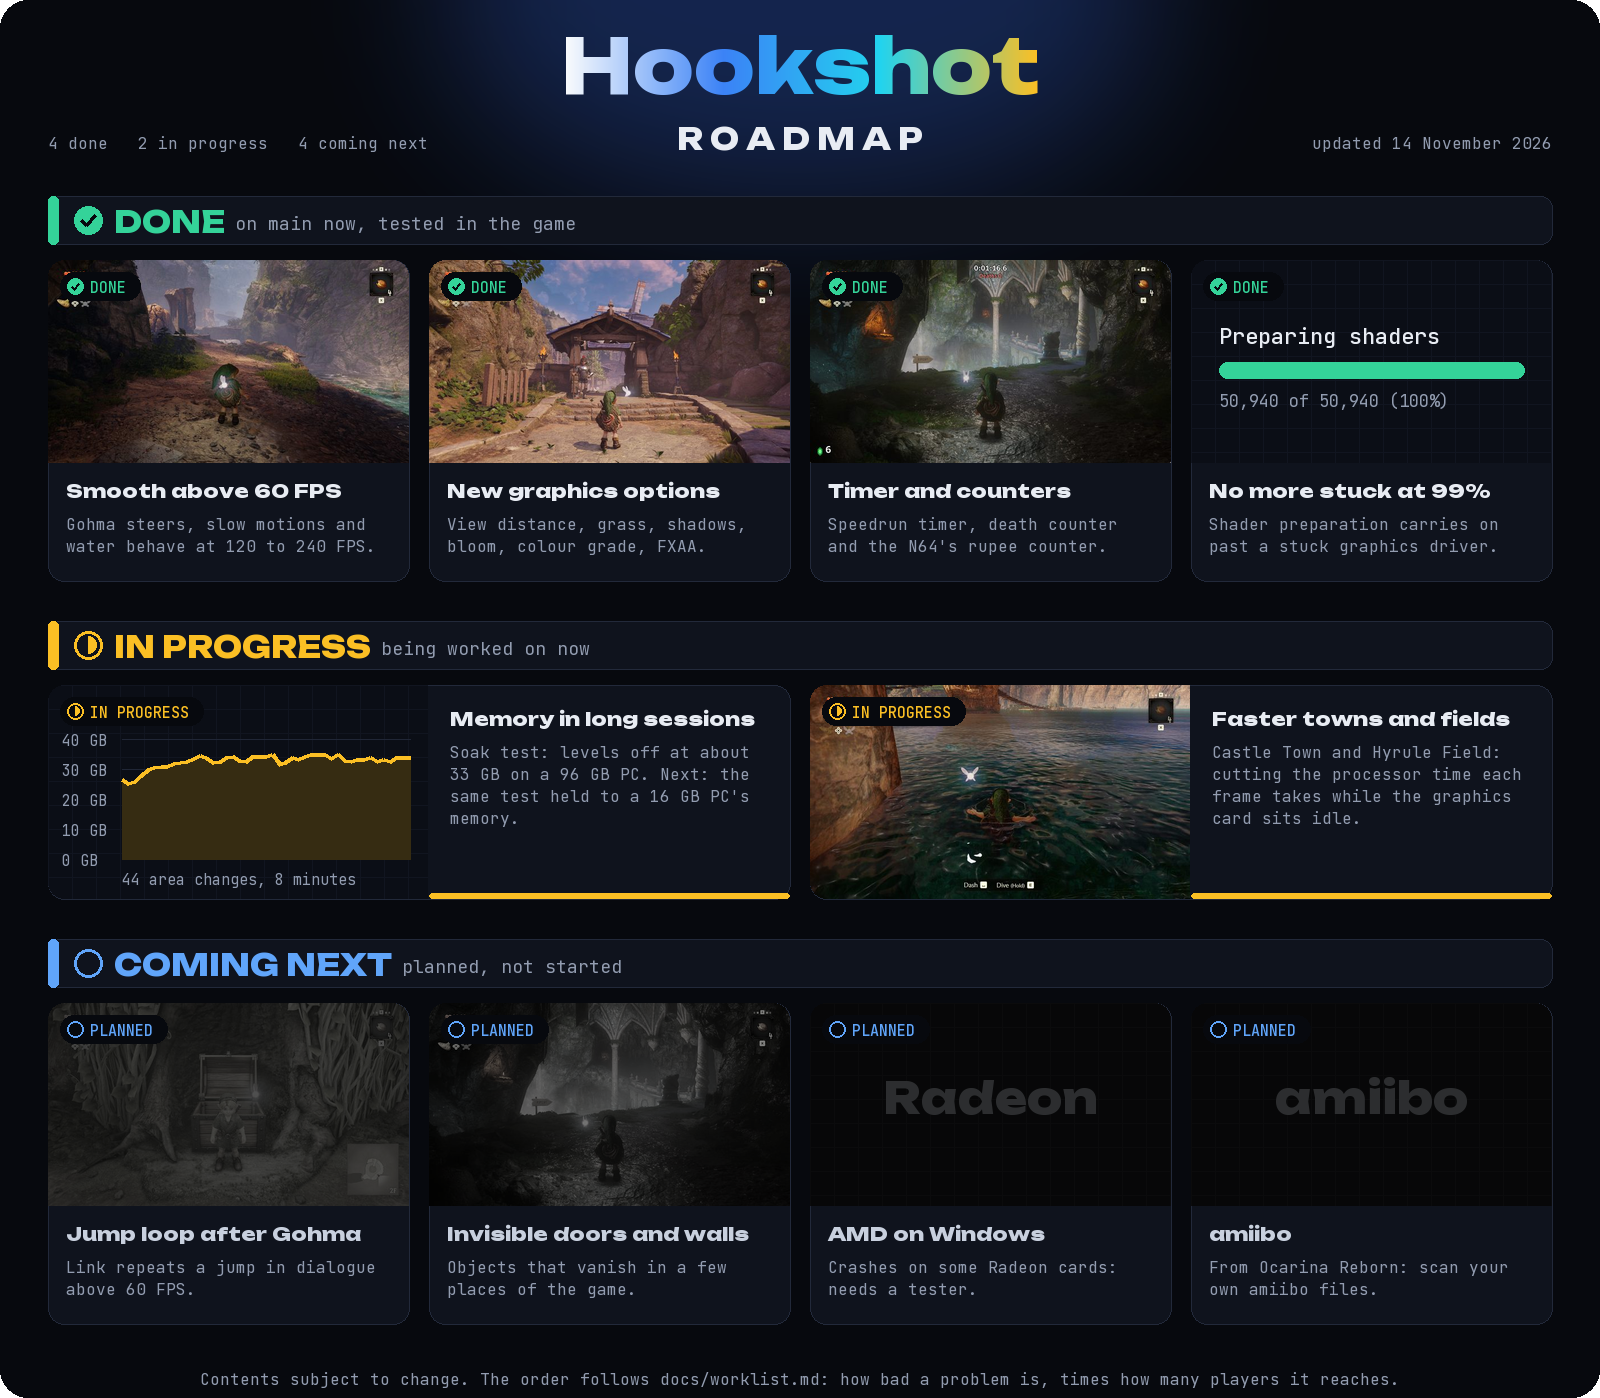
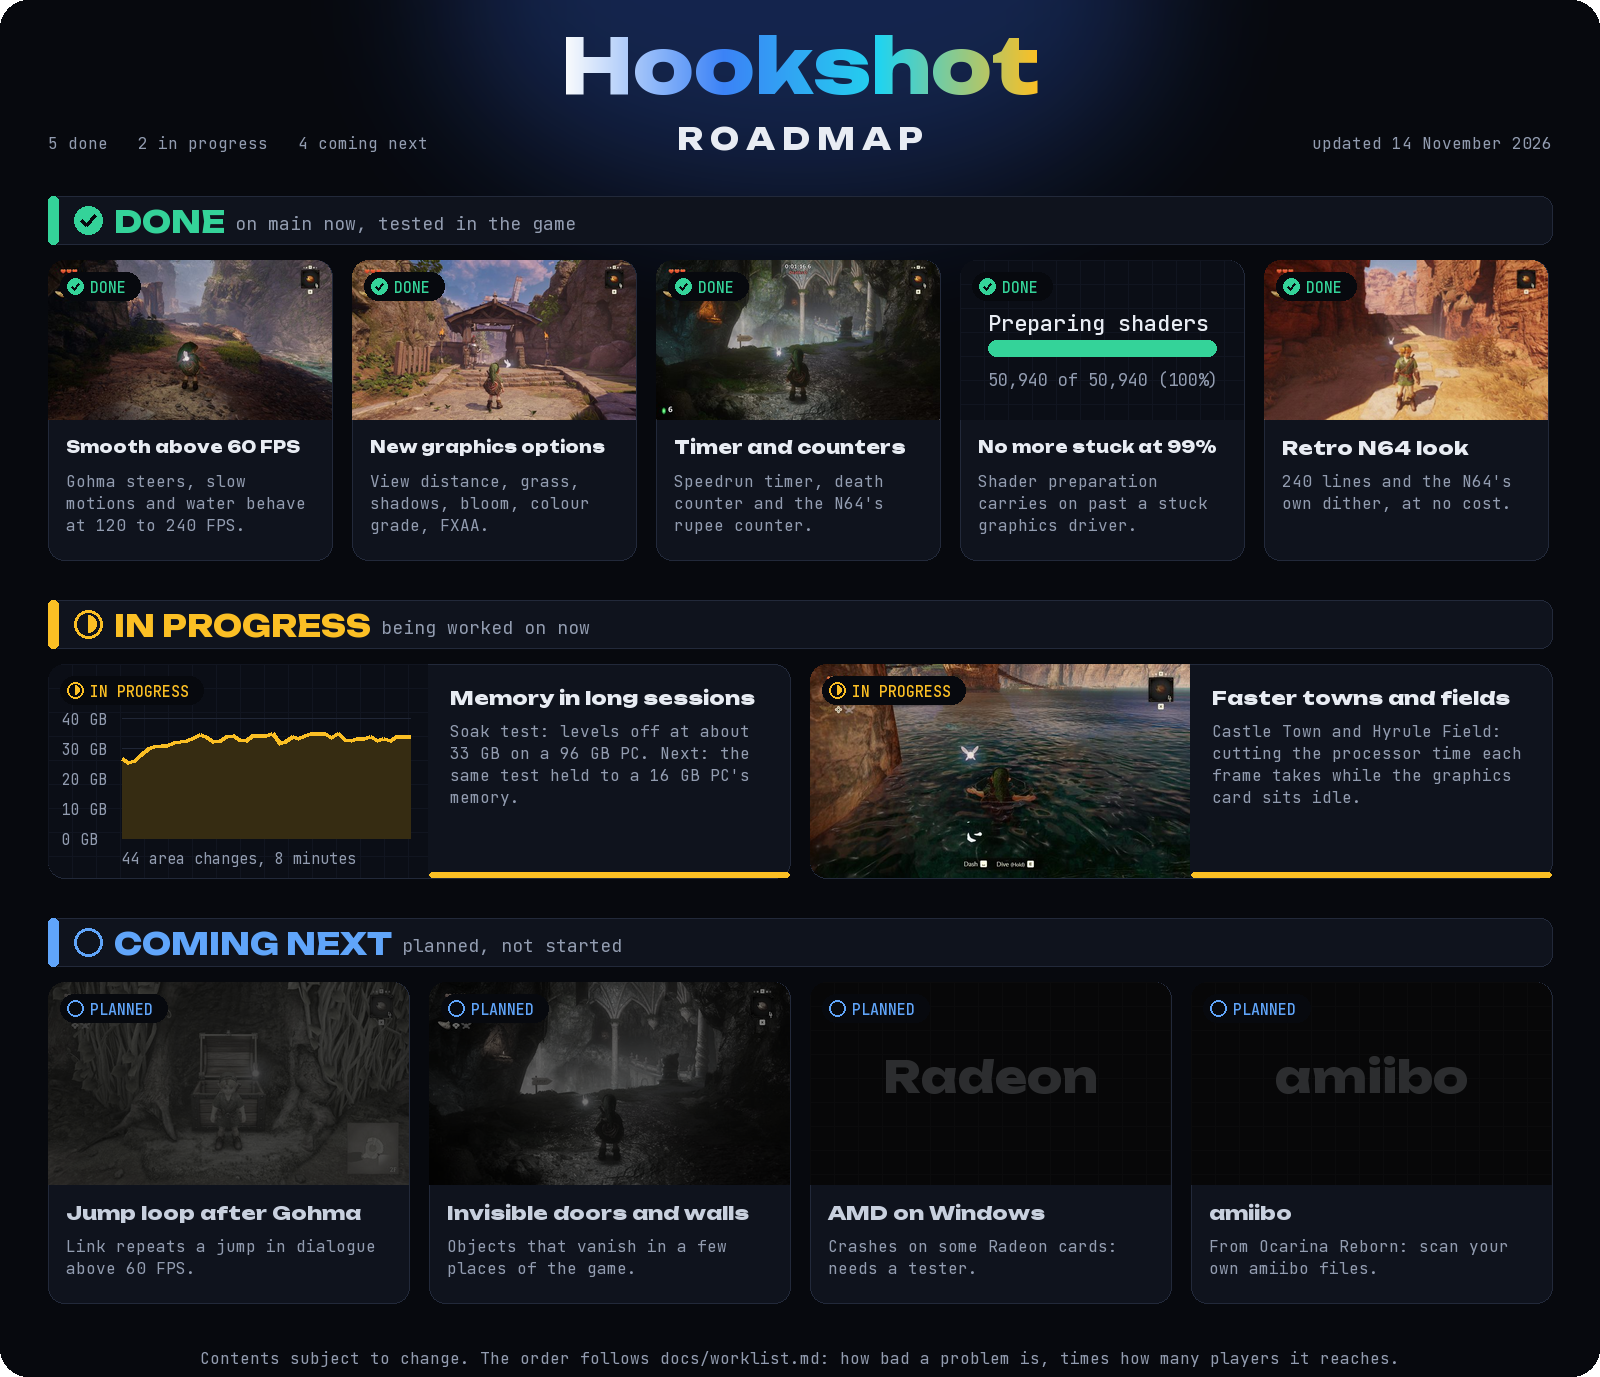
docs(readme): the Retro look and a tested DLSS 5 in What's new, and the roadmap's fifth Done card
The Retro look's N64 value, captured from the window in Gerudo Valley (full frame and 1:1 pixels; 60 FPS either way).
DLSS 5 neural rendering, tested on an RTX 5090 at 4K through a player's own runtime and RenoDX's add-on: a face
close-up and five seconds of the camera circling Link, off beside on (engaged on 99.6% of frames, 4.6 ms a frame). The
text says plainly that Hookshot does not include DLSS 5 and why.

diff --git a/scripts/make_roadmap.py b/scripts/make_roadmap.py
@@ -28,6 +28,7 @@ STAGES = [
         ("graphics.jpg", "New graphics options", "View distance, grass, shadows, bloom, colour grade, FXAA."),
         ("counters.jpg", "Timer and counters", "Speedrun timer, death counter and the N64's rupee counter."),
         ("panel:shaders", "No more stuck at 99%", "Shader preparation carries on past a stuck graphics driver."),
+        ("retro.jpg", "Retro N64 look", "240 lines and the N64's own dither, at no cost."),
     ]),
     ("doing", "IN PROGRESS", "being worked on now", AMBER, [
         ("chart:memory", "Memory in long sessions",
@@ -226,7 +227,11 @@ def main():
                 tx, ty, tw_ = cx + 18, cy + ph + 16, cw - 36
             d = ImageDraw.Draw(im)
             badge(d, cx + 12, cy + 12, kind, {"done": "DONE", "doing": "IN PROGRESS", "next": "PLANNED"}[kind], colour)
-            d.text((tx, ty), ctitle, font=card_t, fill=TEXT if kind != "next" else (200, 208, 222))
+            tf, ts = card_t, 19
+            while d.textlength(ctitle, font=tf) > tw_ - 6 and ts > 13:   # (a long title is set smaller to fit its card)
+                ts -= 1
+                tf = font("Unbounded-ExtraBold.ttf", ts)
+            d.text((tx, ty + (19 - ts) // 2), ctitle, font=tf, fill=TEXT if kind != "next" else (200, 208, 222))
             for j, line in enumerate(wrap(d, ctext, card_b, tw_)):
                 d.text((tx, ty + 34 + j * 22), line, font=card_b, fill=MUTED)
             if kind == "doing":   # (an amber stripe along the bottom: work under way)

diff --git a/readme.md b/readme.md
@@ -99,6 +99,30 @@ Everything below is on `main` in this repository, tested in the game on a GeForc
 **Field of view** (Gameplay tab, 50% to 150%): from a close, cinematic 60% to a wide 140%, where Kakariko's whole gate
 and the cliffs around it fit on screen.
 
+### Retro look: the game as the Nintendo 64 drew it
+
+<img src="docs/images/features/retro-look.jpg" alt="Gerudo Valley with adult Link: Retro look off, and N64 with the picture at 240 lines and the console's dither, full frame and 1:1 pixels">
+
+**Retro look** (Graphics tab, off by default) brings back the 1998 picture: **N64** draws the game at the console's 240
+lines, with colours cut to 16 bits through the N64's own 4x4 "magic square" dither (the same matrix angrylion's
+cycle-accurate N64 renderer uses), scaled up soft. It costs nothing measurable (60 FPS either way on an RTX 5090), and
+the Insert menu stays sharp over it. An **N64 + CRT** look with adjustable scanlines, phosphor mask, glow and curvature
+is being reworked after the first version's plain stripes.
+
+### DLSS 5 neural rendering, tested
+
+<img src="docs/images/features/dlss5-face.jpg" alt="Adult Link's face in Gerudo Valley with DLSS 5 neural rendering off and on">
+
+<img src="docs/images/features/dlss5-motion.webp" alt="Five seconds in Gerudo Valley, the camera circling adult Link, with DLSS 5 off on the left and on on the right">
+
+Tested on a GeForce RTX 5090 at 4K: DLSS 5's neural rendering ran on 99.6% of frames at 4.6 ms a frame (60 FPS off,
+51 on). It gives faces skin shading, hair that catches the light and eyes with depth. **Hookshot does not include DLSS
+5:** NVIDIA has not released it to developers, so its runtime is not ours to ship. These pictures were taken with a
+player's own runtime through RenoDX's DLSS 5 add-on for ReShade. The game's Neural tab already has the switch and the
+model's settings for when NVIDIA does ([DLSS 5 neural rendering](#dlss-5-neural-rendering) below says what it needs).
+
+### Colour grade
+
 <img src="docs/images/features/colour-grade.jpg" alt="Kakariko Village four ways: colour grade off, Vivid, Cinematic and Cool">
 
 **Colour grade** (Graphics tab: Rich, Vivid, Warm, Cool, Cinematic), with **Bloom** (a glow around bright light) and **FXAA**, plus **View distance, Grass and Shadow distance** rows that change
@@ -112,7 +136,7 @@ when the game closes.
 ## Roadmap
 
 <p align="center">
-  <img src="assets/brand/roadmap.png" alt="Hookshot roadmap: 4 done, 2 in progress, 4 coming next, each as a card with a picture. The same items are listed as text below." width="820">
+  <img src="assets/brand/roadmap.png" alt="Hookshot roadmap: 5 done, 2 in progress, 4 coming next, each as a card with a picture. The same items are listed as text below." width="820">
 </p>
 
 **Done** is on `main` now. **In progress** is being worked on at the moment. **Coming next** is planned but not
@@ -131,6 +155,7 @@ reaches.
 - **Timer and counters:** Speedrun timer, Death counter and the N64's rupee counter
 - **No more stuck at 99%:** the Builder's shader preparation carries on past a graphics driver that never finishes a
   shader, and closing the game while shaders build no longer counts against you
+- **Retro N64 look:** the picture at the console's 240 lines with its own dither; the loading screen's 3D Hookshot
 - Also: the one-click Windows HDR launcher, fixes from the Longshot fork and Ocarina Reborn, the water's per-light
   shadow maps (YakuzaFanA), several users, each game in its own folders, the RX 6600 / 6650 XT / 6500 XT fallback
 
